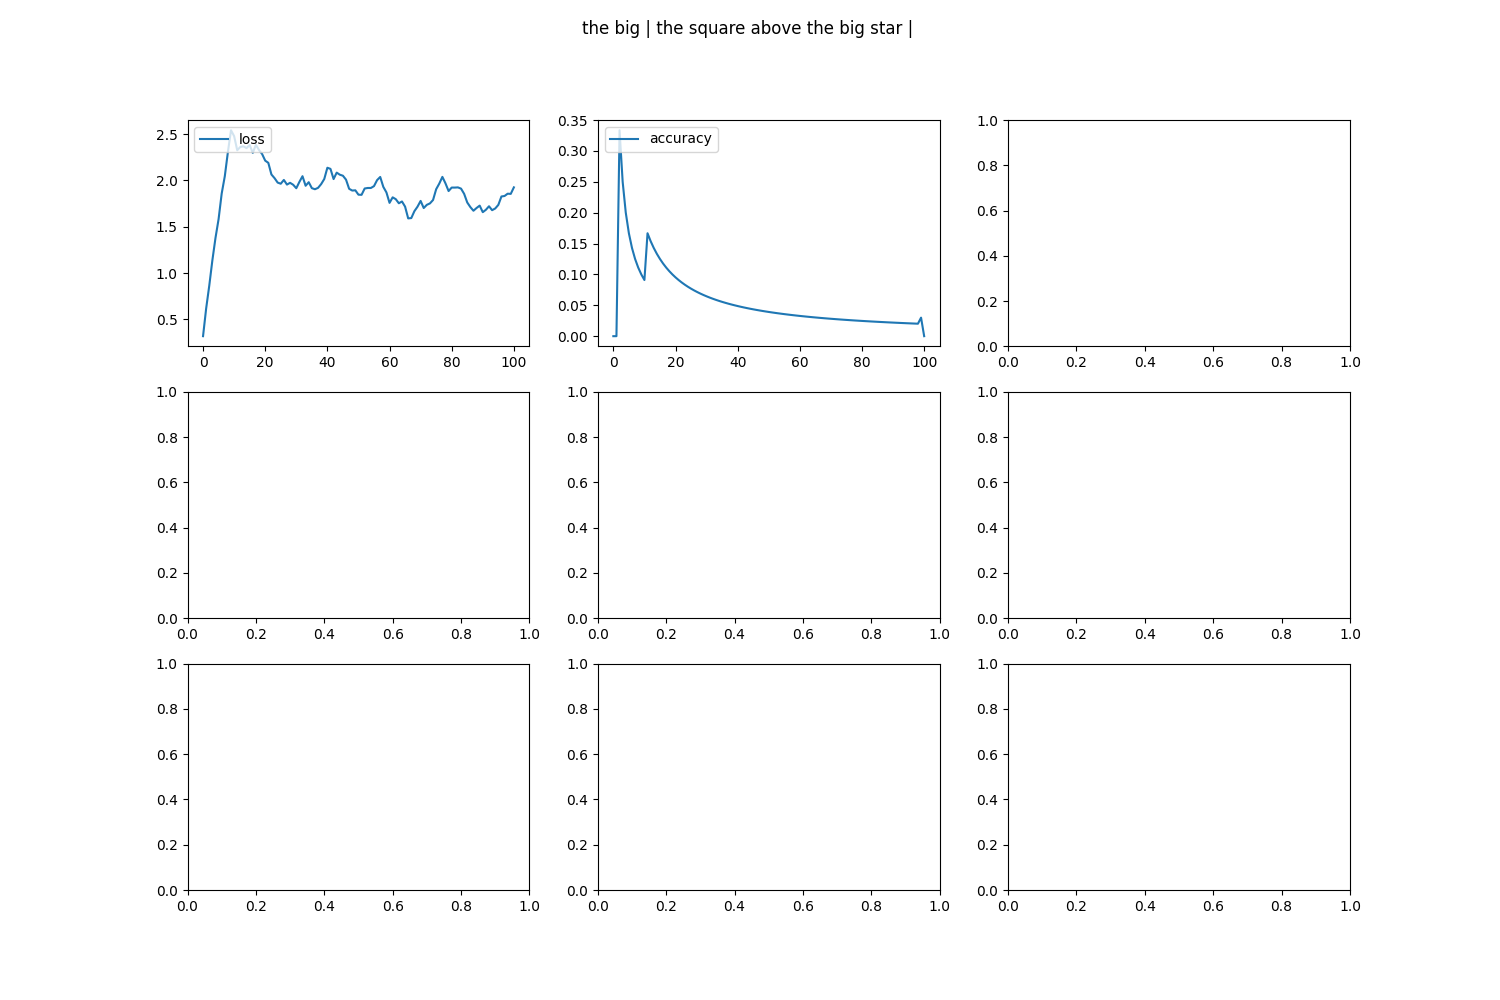
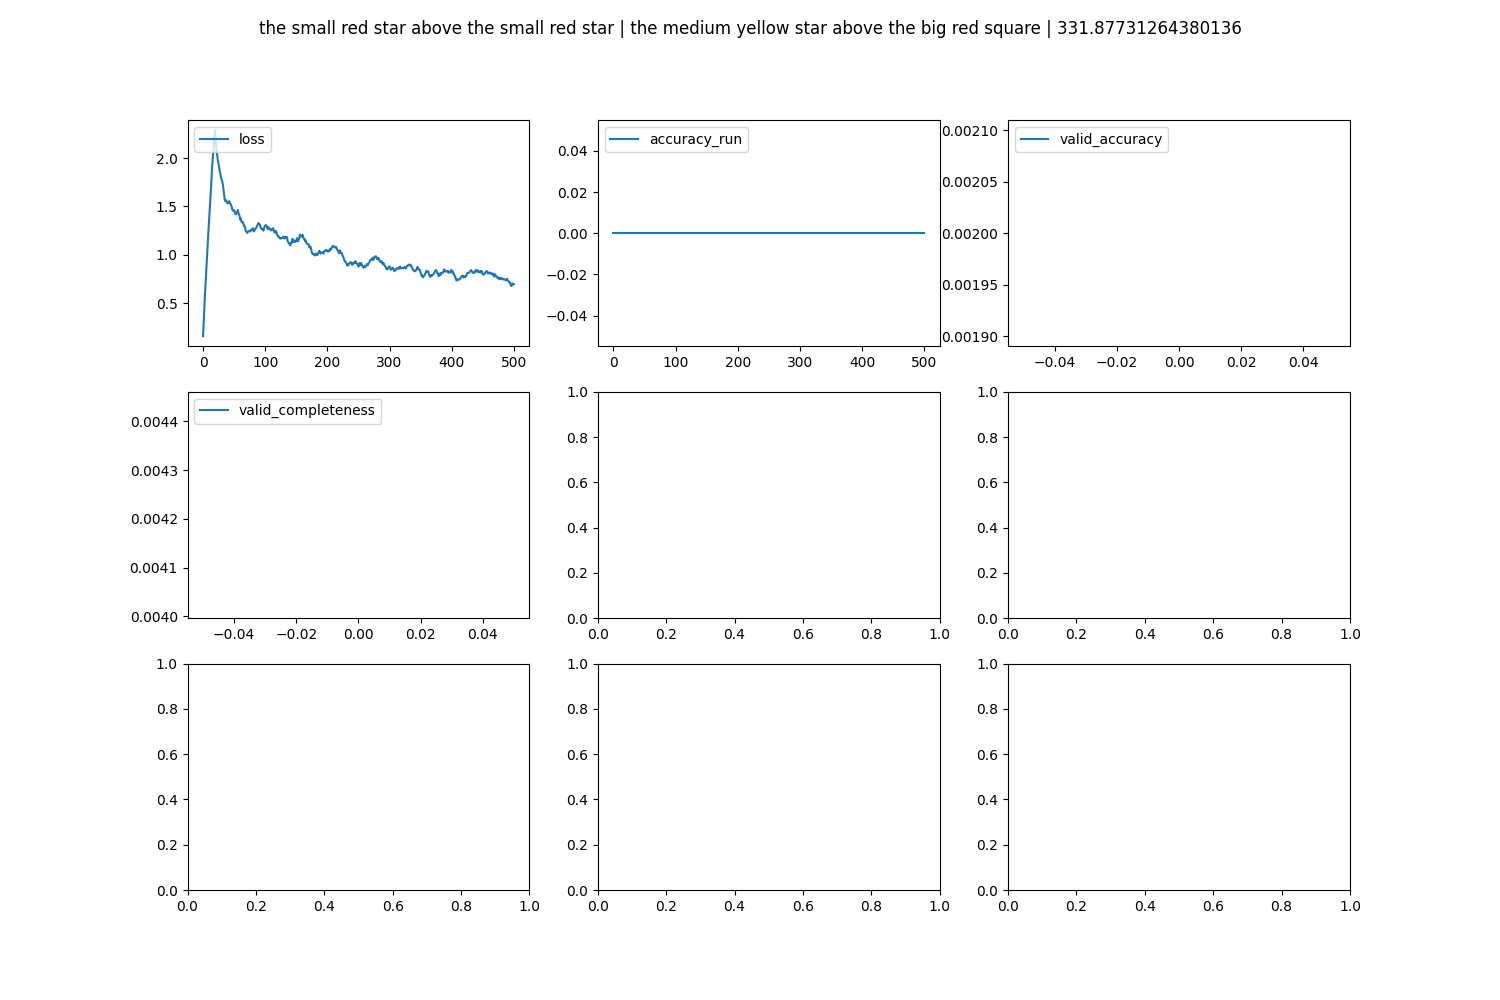
add different feedback methods, more docs

diff --git a/run.py b/run.py
@@ -1,11 +1,15 @@
 import argparse
 
 parser = argparse.ArgumentParser()
+
+parser.add_argument('--model', type=str, help='Model to use', choices=['random', 'max', 'feedback', 'closest'], required=True)
+
 parser.add_argument('--cuda', help='Set device to cuda', action='store_true', default=False)
 parser.add_argument('--do_sampling', help='Use sampling', action='store_true', default=False)
 parser.add_argument('--do_property', help='Get property accuracy', action='store_true', default=False)
 parser.add_argument('--epochs', type=int, help='Number of epochs', default=1)
 parser.add_argument('--limit_iter', type=int, help='Stop each epoch early', default=None)
+parser.add_argument('--valid_completeness_iters', type=int, help='Number of validation samples to use when calculating completeness.', default=100)
 
 args = parser.parse_args()
 
@@ -44,6 +48,7 @@ from sampling import build_sampling
 from torch import nn
 from tqdm.auto import tqdm
 from comparative import build_comparator
+from feedback import feedback_double_forward, feedback_single_forward
 
 sit2id, sid2uids, train_sit_id, valid_sit_id, situations, utterances = build_data(
     id_pairs='data/id_pairs_2.txt',
@@ -77,7 +82,8 @@ if args.do_sampling:
         gen_length=13
     )
 
-train_loss_run = RunningAvg(10)
+train_loss_run = RunningAvg(20)
+train_acc_run = RunningAvg(20)
 plot = Plotter()
 
 ce_loss = nn.CrossEntropyLoss()
@@ -105,7 +111,26 @@ for epoch_idx in range(args.epochs):
         input_sit_str = '^ ' + id_select([sit_id], situations)[0] + ' !'
         input_sit = v1.tokenize(input_sit_str)
         
-        tu = random.choice(target_utters) + ' !'
+        # generate feedback based on setting
+        if args.model in feedback_double_forward:
+            with torch.no_grad():
+                pred_ids_feedback, _, _ = model_forward(
+                    input_sit.to(device),
+                    force=False,
+                    sample=False,
+                    tu_target=None,
+                    loss_func=None,
+                    gen_length=13
+                )
+
+            cleaned_pred_feedback = ' '.join(v2.decode(pred_ids_feedback)).replace('!', '').strip()
+
+            tu = feedback_double_forward[args.model](cleaned_pred_feedback, target_utters)
+        else:
+            tu = feedback_single_forward[args.model](target_utters)
+
+        assert tu[-1] == '!', 'Feedback doesn\'t end with EOS token'
+
         tu_target = v2.tokenize(tu)
         
         pred_ids, loss, logits_all = model_forward(
@@ -129,7 +154,10 @@ for epoch_idx in range(args.epochs):
         opt_dec.zero_grad()
         opt_enc.zero_grad()
         
-        plot.add(loss = train_loss_run(loss.item()/len(pred_ids)), accuracy = num_correct/(iter_idx + 1))
+        plot.add(
+            loss = train_loss_run(loss.item()/len(pred_ids)),
+            accuracy_run = train_acc_run(1 if cleaned_pred in target_utters else 0)
+        )
 
         if iter_idx % 500 == 0 and iter_idx != 0 and args.do_sampling:        
             print('START SAMPLING:')
@@ -204,7 +232,7 @@ for epoch_idx in range(args.epochs):
                 if cleaned_pred in target_utters:
                     avg_valid_accuracy += 1
                 
-                if v_iter_idx < 100:
+                if v_iter_idx < args.valid_completeness_iters:
                     comp = beam_completeness(
                         target_utters,
                         input_sit.to(device),
@@ -219,7 +247,7 @@ for epoch_idx in range(args.epochs):
                     avg_valid_completeness += comp
             
             avg_valid_accuracy /= len(valid_sit_id)
-            avg_valid_completeness /= 100
+            avg_valid_completeness /= args.valid_completeness_iters
             
             plot.add(valid_accuracy=avg_valid_accuracy, valid_completeness=avg_valid_completeness)
 

diff --git a/src/teacher_feedback.py b/src/teacher_feedback.py
@@ -1,0 +1,112 @@
+import re
+
+# shape + attributes - capturing group 1
+# (the ((small|medium|big) )?((blue|red|yellow|green|purple|orange) )?(ellipse|circle|star|square|hexagon|triangle))
+
+# position - capturing group 8
+#  (above|below|right of|left of) 
+
+# shape + attributes 2 - capturing group 9
+# (the ((small|medium|big) )?((blue|red|yellow|green|purple|orange) )?(ellipse|circle|star|square|hexagon|triangle))
+
+pattern = r'(the ((small|medium|big) )?((blue|red|yellow|green|purple|orange) )?(ellipse|circle|star|square|hexagon|triangle))( (above|below|to the right of|to the left of) (the ((small|medium|big) )?((blue|red|yellow|green|purple|orange) )?(ellipse|circle|star|square|hexagon|triangle)))?'
+
+def get_shapes(utter):
+    x = re.search(pattern, utter)
+    
+    if not x:
+        return None
+    
+    shape1 = [
+        x.group(3),
+        x.group(5),
+        x.group(6)
+    ]
+    
+    shape2 = [
+        x.group(11),
+        x.group(13),
+        x.group(14)
+    ]
+    
+    pos = x.group(8)
+    
+    return shape1, pos, shape2
+    
+def shape_dist(shape1, shape2):
+    dist = 0
+    for attr1, attr2 in zip(shape1, shape2):
+        if attr1 != attr2:
+            dist += 1
+    return dist
+
+flip_position = {
+    'above': 'below',
+    'below': 'above',
+    'to the right of': 'to the left of',
+    'to the left of': 'to the right of'
+}
+
+def get_closest_shape(sentence, shape, sentence_pos):
+    shape1_dist = shape_dist(sentence[0], shape)
+    shape2_dist = shape_dist(sentence[2], shape)
+
+    # select first shape
+    if shape1_dist < shape2_dist:
+        if sentence_pos == 0: # if shapes are both in the first slot of the sentence
+            pos = sentence[1]
+        else:
+            pos = flip_position[sentence[1]]
+
+        return sentence[0], shape1_dist, pos
+    
+    if sentence_pos == 1: # if shapes are both in the second slot of the sentence
+        pos = sentence[1]
+    else:
+        pos = flip_position[sentence[1]]
+
+    # select second shape
+    return sentence[2], shape2_dist, pos
+
+def get_shape_str(shape):
+    no_none = [s for s in shape if s != None]
+    return 'the ' + ' '.join(no_none)
+
+def reconstruct_str(sentence):
+    shape1_str = get_shape_str(sentence[0])
+
+    if sentence[1] is None:
+        return shape1_str
+
+    shape2_str = get_shape_str(sentence[2])
+
+    return shape1_str + ' ' + sentence[1] + ' ' + shape2_str
+
+def get_feedback_sentence(target_utters, predicted):
+    target_max = max(target_utters, key=lambda u:len(u)) 
+    
+    pred_sentence = get_shapes(predicted)
+    target_sentence = get_shapes(target_max)
+    
+    if pred_sentence is None:
+        return target_max
+    
+    feedback_sentence = [None, None, None]
+    
+    feedback_sentence[0], shape1_dist, shape1_pos = get_closest_shape(target_sentence, pred_sentence[0], 0)
+    
+    feedback_sentence[2], shape2_dist, shape2_pos = get_closest_shape(target_sentence, pred_sentence[2], 1)
+    
+    '''
+    # update shape with largest distance to target
+    if shape1_dist > shape2_dist: # update shape 1 only
+        feedback_sentence[1] = shape1_pos
+        feedback_sentence[2] = pred_sentence[2]
+    else: # update shape 2 only
+        feedback_sentence[1] = shape2_pos
+        feedback_sentence[0] = pred_sentence[0]
+    '''
+    
+    feedback_sentence[1] = pred_sentence[1]
+
+    return reconstruct_str(feedback_sentence)

diff --git a/src/feedback.py b/src/feedback.py
@@ -1,6 +1,8 @@
 from nltk.metrics.distance import edit_distance
-import feedback
+import teacher_feedback
+import random
 
+# need double forward pass
 def closest_target(cleaned_pred, target_utters):
     utter_dists = [(-edit_distance(t, cleaned_pred), t) for t in target_utters]
     utter_closest = max(utter_dists, key=lambda x:x[0])[1] + ' !'
@@ -8,6 +10,23 @@ def closest_target(cleaned_pred, target_utters):
     return utter_closest
 
 def feedback_target(cleaned_pred, target_utters):
-    utter_feedback = feedback.get_feedback_sentence(target_utters, cleaned_pred) + ' !'
+    utter_feedback = teacher_feedback.get_feedback_sentence(target_utters, cleaned_pred) + ' !'
     
     return utter_feedback
+
+# no double forward pass
+def max_target(target_utters):
+    return max(target_utters, key=lambda x:len(x.split(' '))) + ' !'
+
+def random_target(target_utters):
+    return random.choice(target_utters) + ' !'
+
+feedback_double_forward  = {
+    'feedback': feedback_target,
+    'closest': closest_target
+}
+
+feedback_single_forward  = {
+    'random': random_target,
+    'max': max_target
+}

diff --git a/src/net.py b/src/net.py
@@ -107,16 +107,16 @@ def model_forward(enc,
     enc_out, enc_hidden = enc(input_sit)
 
     # if generation length is None, the generation length is set to the gt length
-    assert gen_length is not None or tu_target is not None
+    assert gen_length is not None or tu_target is not None, 'gen_length = None requires a ground truth to get generation length.'
 
     if gen_length is None:
         gen_length = len(tu_target)
 
     # can't do teacher forcing and sampling at the same time
-    assert not (force and sample)
+    assert not (force and sample), 'Can\'t do teacher forcing and sampling at the same time.'
 
     # loss function requires a gt
-    assert not (loss_func is not None and tu_target is None)
+    assert not (loss_func is not None and tu_target is None), 'Loss function requires a ground truth.'
 
     pred_ids = []
     logits_all = []

diff --git a/README.md b/README.md
@@ -1,5 +1,9 @@
 To run:
 ```
-python run.py # use cpu
-python run.py --cuda # use cuda
+python run.py --model {'random', 'max', 'feedback', 'closest'} # use cpu
+python run.py --model {'random', 'max', 'feedback', 'closest'} --cuda # use cuda
 ```
+
+Params:
+`--do_sampling` for sampling
+`--do_property` for property evaluation
